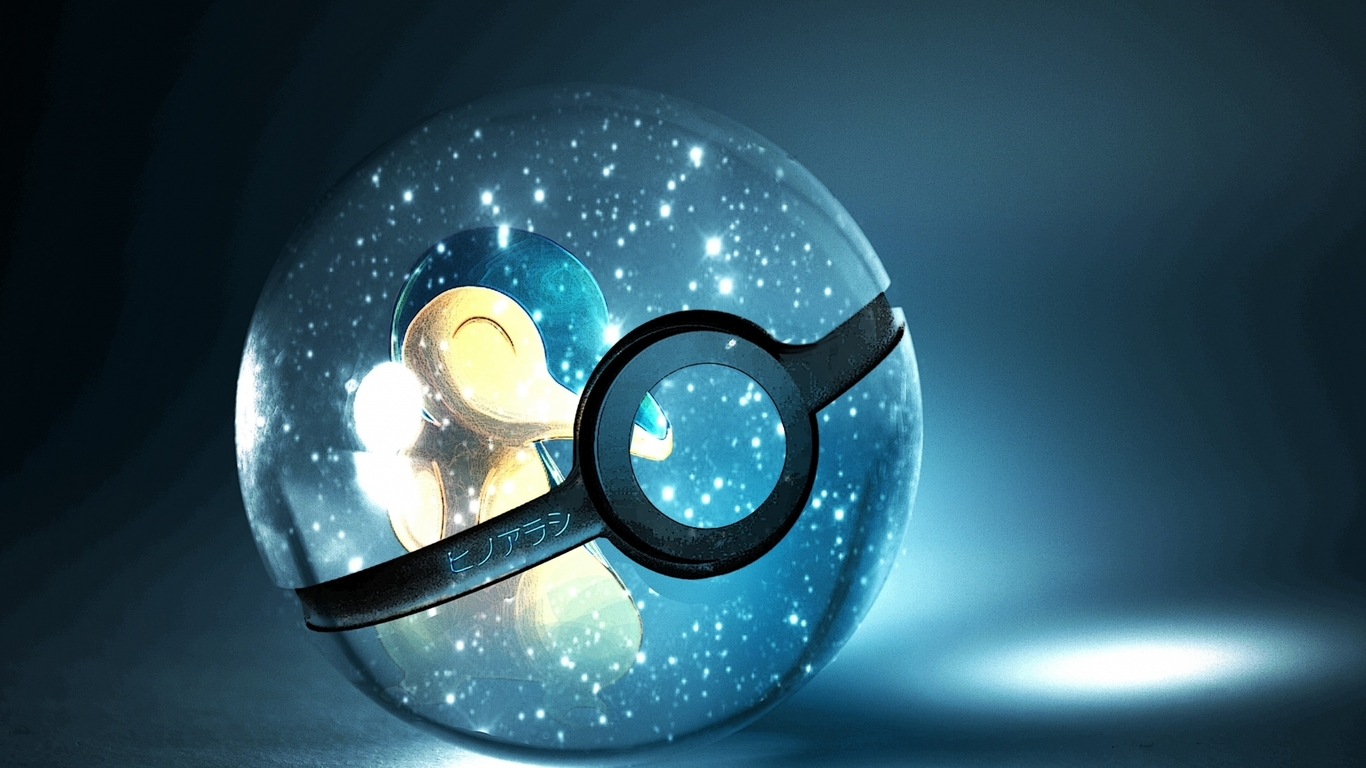
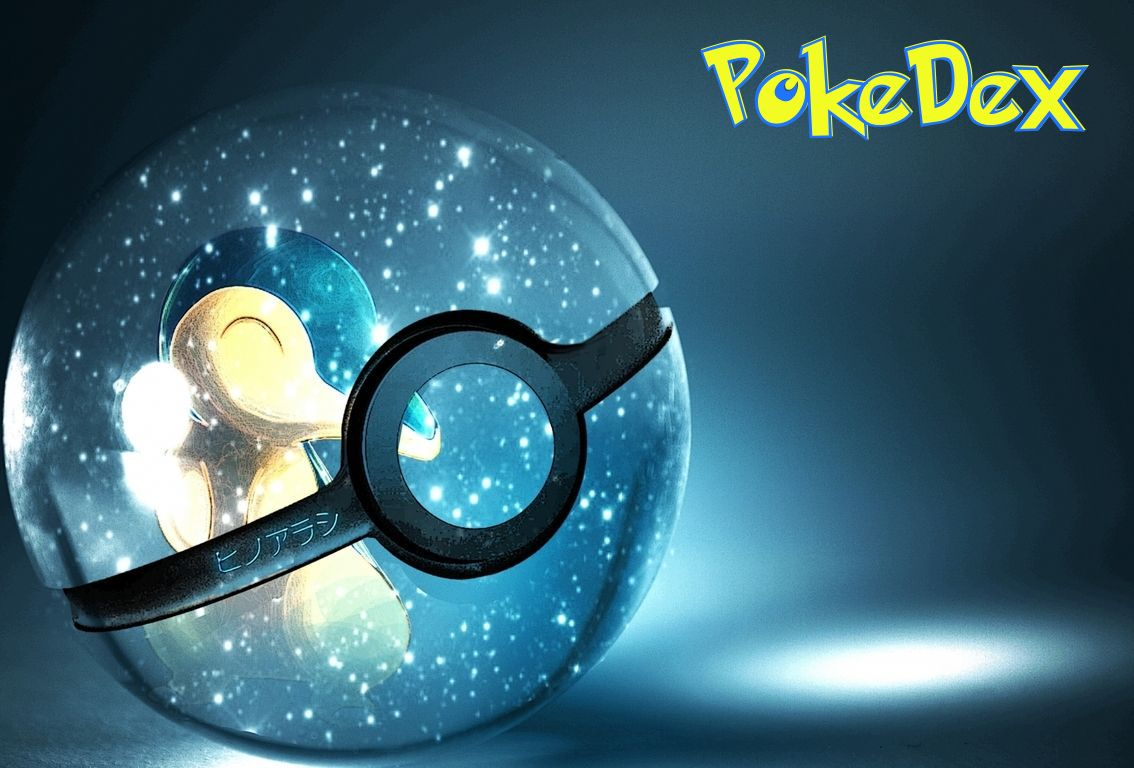
added new background. need to fix how it looks after class

diff --git a/index.html b/index.html
@@ -8,7 +8,7 @@
 <body>
   <!-- NAVBAR -->
   <div class="nav">
-      <h1>PokeDex</h1>
+      <!-- <h1>PokeDex</h1> -->
   </div>
 <!-- ====================== -->
   <div class="empty"></div> <!-- sneaky hack to get pokeDisplay and navbar to be spaced properly -->
@@ -37,13 +37,13 @@
   <section id='pokeGrid'>
     <div class="row pGrid">
       <div class="col l4 center">
-          <img src="images/772.png" id="gridImage">
+          <img src="images/689.png" id="gridImage">
       </div>
       <div class="col l4 center">
         <img src="images/772.png" id="gridImage">
       </div>
       <div class="col l4 center">
-        <img src="images/772.png" id="gridImage">
+        <img src="images/799.png" id="gridImage">
       </div>
     </div>
   </section>

diff --git a/main.css b/main.css
@@ -1,4 +1,11 @@
 /* https://wireframe.cc/18BbEK */
+/* WHOLE SITE */
+body{
+  background-image: url('images/landing-copy.jpeg');
+  background-repeat: no-repeat;
+  background-size: cover;
+}
+/* ============ */
 /* NAVBAR */
 .nav{
   position: absolute;
@@ -53,12 +60,11 @@ h1{
   height: auto;
   background-color: #689689;
   padding: 20px 100px;
-  border: 1px solid lightblue;
 }
 
 #pokeGrid div.pGrid #gridImage{
   max-width: 80px;
-  border: 1px solid blue;
+  background: blue;
 }
 
 .center{
